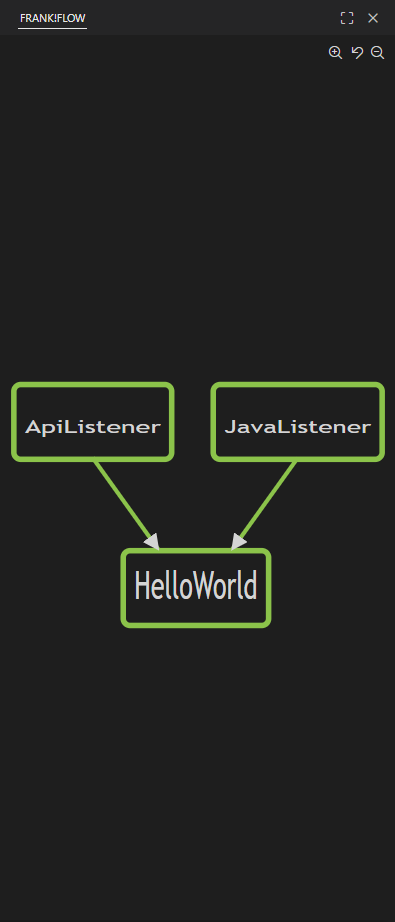
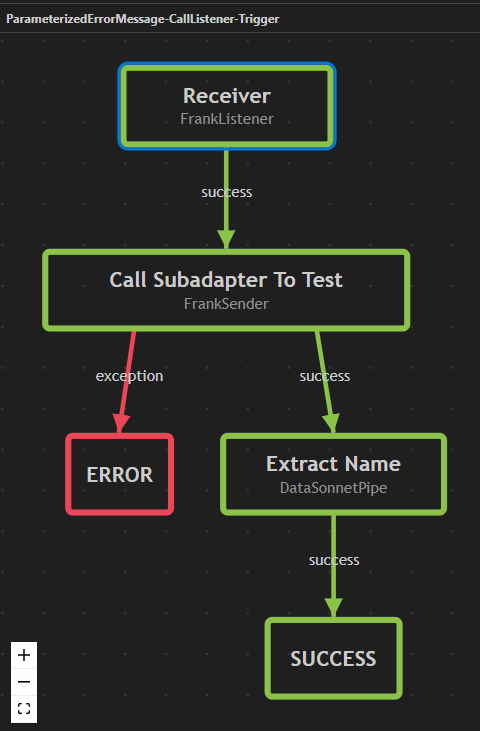
Update README

Changed region(s): [[0.0, 0.0, 0.9722, 0.9631], [0.0, 0.8728, 0.0911, 0.9932], [0.8203, 0.0, 0.9722, 0.0602]]

diff --git a/README.md b/README.md
@@ -10,7 +10,7 @@
 
 ### Configuration Flow Visualization
 
-The secondary sidebar automatically opens a live flowchart of the Frank configuration currently open in your editor. It updates on every save and document change, giving you an instant visual overview of your pipeline.
+The secondary sidebar automatically opens a live flowchart of the Frank configuration currently open in your editor. It updates on every save and document change, giving you an instant visual overview of your pipeline. Click any node in the flow to jump directly to that pipe or adapter in the editor. Use the zoom controls in the bottom-left corner or the scrollwheel to zoom in, zoom out, or fit the diagram to screen.
 
 ![Flow visualization screenshot](resources/images/flow.png)
 
@@ -66,9 +66,17 @@ Right-click a project in the Frank!Start view to manage the Frank!Framework vers
 
 ### Create a New Frank Project
 
-The Frank!Framework view in the Activity Bar gives you quick access to create a new Frank project. Choose **Simple Frank** to generate a ready-to-use project structure in your workspace, or select one of the other options to be directed to the relevant documentation.
+Click the **+** button in the Frank!Start view header to start creating a new Frank project.
 
-![Create project screenshot](resources/images/createfrank.png)
+![Create button screenshot](resources/images/createbutton.png)
+
+A picker appears where you can choose the project type. Select **Simple Frank** to generate a ready-to-use project structure in your workspace, or select one of the other options to be directed to the relevant documentation.
+
+![Create project picker screenshot](resources/images/createfrank.png)
+
+After selecting **Simple Frank**, a form opens where you set the project name, root directory, and one or more configuration names. Check **Generate boilerplate files** to have the extension create starter XSL, XSD, datasource, and JSON schema files in each configuration's subfolders, or leave it unchecked to start with an empty structure.
+
+![Create Frank form screenshot](resources/images/create_frank_view.png)
 
 ---
 